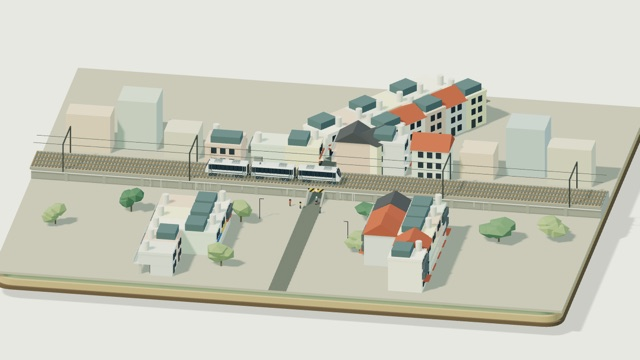
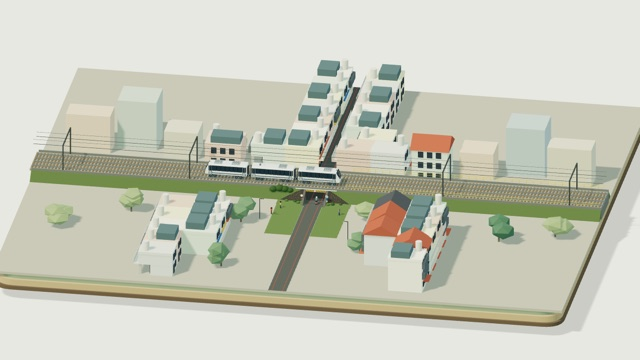
feat(garage/guanghua): 照片比對兩輪——「看涵洞」改成照片角度、洞口加寬、洞口周邊依照片重做（評分 14／20，未達 16 門檻，檢查點）
依使用者 09-30 貼的兩張網路照片（遠景正面 EMU500、近景直式莒光）做照片比對。
「看涵洞」按鈕改成照片角度（使用者選項「改「看涵洞」」）。

guanghua-view.js
- 看涵洞改用透視鏡頭：水平視角 24°、預設離洞口 20 m、人眼高 1.5 m；縮放 10～31 m，可往下拖（仰角下限 -.12、鏡頭不低於地面 .3 m），切換時帶天空漸層貼圖。其他視角照舊用正交鏡頭。
- lookTime：時間再挪到最靠近洞口的那節車廂中心正對洞口（主對話判讀）。
- internals().camera 改成 getter，回傳當下實際使用的鏡頭（驗收工具快取 internals 時也拿得到透視鏡頭）。

guanghua.js（尺寸都是主對話依照片估計）
- 涵洞淨寬 3.0 → 4.5 m（照片開口寬約為淨高的 2.5 倍），淨高不變；橋面降到 2.3 m。
- 洞口立面由下往上：黃黑斜紋梁（左側多伸出去）→ 淺灰鋼梁翼板 → 灰色混凝土護欄；拿掉擋土牆面板與扶壁。
- 洞內側牆與洞頂貼深色，洞內路面用深色瀝青；翼牆改深灰並加直向鏽痕；路面與混凝土整體壓暗。
- 細節併成一個網格（一張貼圖、多 1 次 draw call）：草坡、卵石錐坡（5 m、頂緣從洞口直線降到坡腳）、紅線、草地與草叢、限高牌、反光鏡與藍白牌、黃色欄杆。
- 每股加一條細承力索；洞口後房子改兩層平頂；洞後的路拉直（OSM 與照片一）；拍照者移到洞口兩側。
- 照片裡的拒馬、交通錐不做（使用者：「請忽略照片中的維修圍籬之類的物件」）。

驗證（本機 static server，Chrome 無視窗）
- V2 淨空 36 款：34 款 0 穿入；e500、e1000 紅在集電弓碰線，穿入點與改動前逐項相同（已知、使用者決定不改）。
- V5 draw call 39 組全過，最高 119（門檻 129），點光源都是 3 盞。
- V6 機車：冒煙、兩趟路徑幾何（15/15、15/15）、招牌時刻、出現時機全過。洞壁正向對照改依洞寬推移，夜燈量光改用縮小到底加往上拖，都是判準過期。
- V6 夜燈 11/12：主判準過（洞內開燈比值 27.0、11.7，路燈下 2.4）。紅的是正向對照「夜裡關洞燈 → 洞內比值 <2」量到 2.06（改動前 1.72）：洞內改深色後白天基準變暗，「洞裡本來就暗」的效應變大。燈的效果仍有 5～13 倍差距，但這條判準要改成相對門檻才有鑑別力，留給下一輪。
- 照片角度互動檢查 66 項全過（6 款車）；外框冒煙 console error 0；預覽圖重產。
- 獨立評審（opus，照 rubric）：r4 是 A 14、B 13；r5 是 A 14、B 14，B 的「洞口兩側」0 分。都沒到 16 分門檻，下一輪計畫見桌面交接檔。

diff --git a/rail-3d/garage-scenes/guanghua.js b/rail-3d/garage-scenes/guanghua.js
@@ -32,17 +32,20 @@ export const THEMES={ // 同高架景那組色（viaduct.js），粗模沿用
 };
 // 幾何規格（公尺）。「依照片估計」的與「本輪自訂」的分開標。
 export const DIM={
- W:3.0,        // 涵洞淨寬（依照片估計）
+ W:4.5,        // 涵洞淨寬（照片比對第二輪由 3.0 加寬：使用者 09-30 貼的遠景正面照，開口寬約為淨高的 2.5 倍；主對話依照片估計）
  H:2.1,        // 涵洞淨高（依照片估計）
  BANK:10.0,    // 穿越長度＝路堤頂寬（依照片估計 8～10 m 取上限：kit 的道床每股 5.3 m 寬，兩股要放得下）
- DECK:2.6,     // 橋面頂離涵洞路面（本輪自訂：淨高 2.1＋橋面板厚 .5）
- BEAM:2.95,    // 警示梁頂（本輪自訂：使列車底離梁頂約 .7 m，落在依照片估計的 .6～.9 m）
+ DECK:2.3,     // 橋面頂離涵洞路面（照片比對輪由 2.6 降到 2.3：軌頂跟著降 .3 m，護欄頂才剛好蓋住鋼軌、從人眼高度只看到車底，同使用者 09-30 貼的照片；數值是主對話依照片估計）
+ BEAM:2.6,     // 黃黑斜紋梁頂（照片比對輪：斜紋約 .5 m 高，依照片估計；原本 2.95）
+ FLANGE:2.8,   // 斜紋梁上的淺灰鋼梁翼板頂（依照片估計，約 .2 m 高）
+ PARAPET:3.1,  // 灰色混凝土護欄頂（依照片估計：翼板上露出約 .3 m；比軌頂高一點點）
+ PARAPET_T:.25,// 護欄厚（本輪自訂）
  BEAM_T:.35,   // 警示梁厚（本輪自訂）
  DIP:.6,       // 涵洞路面比外側低多少（依照片估計「低於外側」，數值本輪自訂）
  CUT:4.4,      // 洞口外的引道切口長（本輪自訂；粗模是 5.2，短一點翼牆坡度陡、斜角看洞口比較不被擋）
  FLAT:1.5,     // 切口裡先平 1.5 m 再爬坡（本輪自訂）
  WALL_T:.45,   // 翼牆厚（本輪自訂；粗模是 .3，擋土牆要有分量）
- WALL_H:2.6,   // 翼牆貼路堤那一端的高＝橋面高（牆頂接路堤與鐵道），往外斜降到外側地面（本輪自訂；粗模是 2.2）
+ WALL_H:2.6,   // 翼牆貼路堤那一端的高＝斜紋梁頂＝錐坡頂，往外斜降到外側地面（本輪自訂；粗模是 2.2）
  SPACING:4.0,  // 雙線線間距（本輪自訂：台鐵雙線一般約 4 m）
  ALLEY:4.0     // 涵洞外的巷寬（本輪自訂）
 };
@@ -59,11 +62,40 @@ function profile(k,pts,thick){
 function warningFace(w,h){
  const c=document.createElement('canvas'),W=1024,H=Math.max(64,Math.round(W*h/w));c.width=W;c.height=H;
  const g=c.getContext('2d');g.fillStyle='#dfb63a';g.fillRect(0,0,W,H);
- const p=H*.62; // 一組黃黑的水平週期
- g.fillStyle='#26282a';for(let x0=-H;x0<W+H;x0+=p*2){g.beginPath();g.moveTo(x0,H);g.lineTo(x0+p,H);g.lineTo(x0+p+H,0);g.lineTo(x0+H,0);g.closePath();g.fill();}
+ const p=H*.35,k=H*.55; // 黃、黑各一條的水平寬與斜紋上下兩端的水平位移（照片比對輪：依照片改窄、改陡，一組約 .35 m；原本 p＝H×.62、k＝H）
+ g.fillStyle='#26282a';for(let x0=-H;x0<W+H;x0+=p*2){g.beginPath();g.moveTo(x0,H);g.lineTo(x0+p,H);g.lineTo(x0+p+k,0);g.lineTo(x0+k,0);g.closePath();g.fill();}
  const r=H*.43;g.fillStyle='#f3efe4';g.beginPath();g.arc(W/2,H/2,r,0,Math.PI*2);g.fill();
  g.lineWidth=r*.2;g.strokeStyle='#c4342b';g.beginPath();g.arc(W/2,H/2,r-g.lineWidth/2,0,Math.PI*2);g.stroke();
  const t=new THREE.CanvasTexture(c);t.colorSpace=THREE.SRGBColorSpace;t.anisotropy=4;return t;
+}
+// 【照片比對】洞口周邊細節共用一張 1024² 貼圖（一個網格＝一次 draw call）：上 384 列是卵石錐坡（透明處露出底下草坡，外緣四分之一橢圓），下面是限高牌、黃黑桿、各色色塊。
+// 卵石的顏色與疏密依使用者 09-30 貼的照片二（深灰砂漿、橘褐卵石）估計；圓牌照片看不清字，這裡不寫字。
+const SWATCH={red:'#b4463c',grass:'#55683a',grass2:'#617541',flange:'#d3d5cf',yellow:'#d7b43a',bush:'#3a5429',bush2:'#4a6630',mirror:'#a3aaae',rim:'#43464a',blue:'#2d5d9c',white:'#eceae2'};
+function detailAtlas(rand){
+ const c=document.createElement('canvas');c.width=c.height=1024;const g=c.getContext('2d'),S=384;
+ g.fillStyle='#393b37';g.fillRect(0,0,1024,S);
+ for(let i=0;i<5000;i++){const v=38+rand()*24|0;g.fillStyle=`rgb(${v},${v+2},${v-2})`;g.fillRect(rand()*1024,rand()*S,2+rand()*4,2+rand()*4);}
+ const stones=['#7e4f30','#8b5a36','#6c4630','#5b4d40','#4b4a45'];
+ for(let i=0;i<150;i++){const x=rand()*1024,y=rand()*S,r=6+rand()*5;g.fillStyle=stones[rand()*stones.length|0];g.beginPath();g.ellipse(x,y,r*(1+rand()*.4),r,rand()*Math.PI,0,Math.PI*2);g.fill();}
+ // 錐坡外形：靠洞口那 5% 頂緣是平的，往外近乎直線降到坡腳（照片比對第二輪：照片裡錐坡頂從洞口旁一路斜降，主對話判讀）；外側透明
+ g.globalCompositeOperation='destination-in';g.beginPath();g.moveTo(0,0);g.lineTo(51,0);
+ for(let x=51;x<=1024;x+=8){const f=(x-51)/(1024-51);g.lineTo(x,S*Math.pow(f,1.1));}
+ g.lineTo(1024,S);g.lineTo(0,S);g.closePath();g.fill();g.globalCompositeOperation='source-over';
+ const rect={stone:[0,0,1024,S],pole:[0,400,64,656],sign:[80,400,336,656]},sw={};
+ Object.entries(SWATCH).forEach(([n,col],i)=>{const x=352+(i%10)*64,y=400+(i/10|0)*64;g.fillStyle=col;g.fillRect(x,y,64,64);sw[n]=[(x+32)/1024,1-(y+32)/1024];});
+ for(let i=0;i<8;i++){g.fillStyle=i%2?'#26282a':'#d7b43a';g.fillRect(0,400+i*32,64,32);} // 黃黑相間的桿
+ g.fillStyle='#b8b5ac';g.fillRect(80,400,256,256);g.fillStyle='#f1eee6';g.beginPath();g.arc(208,528,124,0,Math.PI*2);g.fill();
+ g.lineWidth=26;g.strokeStyle='#c4342b';g.beginPath();g.arc(208,528,111,0,Math.PI*2);g.stroke();
+ const t=new THREE.CanvasTexture(c);t.colorSpace=THREE.SRGBColorSpace;t.anisotropy=4;
+ const uvRect=n=>{const [x0,y0,x1,y1]=rect[n];return[x0/1024,1-y1/1024,x1/1024,1-y0/1024];}; // [u0,v0,u1,v1]
+ return{texture:t,swatch:sw,uvRect};
+}
+// 把多個幾何（各自先套好世界矩陣與 UV）併成一個非索引幾何。
+const seeded=n=>{let v=n;return()=>((v=(Math.imul(v,1664525)+1013904223)>>>0)/4294967296);};
+function mergeParts(parts){
+ const P=[],N=[],U=[];
+ for(const g0 of parts){const g=g0.index?g0.toNonIndexed():g0;P.push(...g.attributes.position.array);N.push(...g.attributes.normal.array);U.push(...g.attributes.uv.array);if(g!==g0)g.dispose();g0.dispose();}
+ const g=new THREE.BufferGeometry();g.setAttribute('position',new THREE.Float32BufferAttribute(P,3));g.setAttribute('normal',new THREE.Float32BufferAttribute(N,3));g.setAttribute('uv',new THREE.Float32BufferAttribute(U,2));return g;
 }
 
 // ── 拍照者：garage-people-v1 的人＋garage-camera-v1 的相機（同多良 duoliang.js 的 createVisitors，只留攝影者：腳固定、上半身繞腰轉向最近車廂，上限 TORSO_LIMIT）。
@@ -162,8 +194,8 @@ export function createScene(kits=null){
  const RAIL_Z=ZD+STACK,WIRE_Z=RAIL_Z+1.95; // 電車線離軌頂 1.95：與 crossing／高架同一個高度，集電弓伸得到
  const X=27,Y=23.6; // 地面層比底座薄板內縮一點，圓角才不會被方塊角戳出去；第二輪把底座由 76 縮成 54 寬（主對話判讀：全景取景才能拉近到洞口與擋土牆看得清楚、又不裁到底座）
  // 材質：名字給驗收腳本（淨空、比例）辨認結構角色；房子與道具用 props 自己的材質。
- const concrete=mat('#a4a199',{name:'concrete'}),stain=mat('#8a8880',{name:'stain'}),streak=mat('#b9b6ac',{name:'streak'}),paving=mat('#a9a495',{name:'ground'}),asphalt=mat('#62665f',{name:'asphalt'});
- const wall=mat('#96948b',{name:'retaining-wall'}),cap=mat('#c2bfb4',{name:'retaining-wall-cap'}),wstain=mat('#8a8880',{name:'retaining-wall-stain'}),wstreak=mat('#b9b6ac',{name:'retaining-wall-streak'}); // 擋土牆面板（路堤正面、引道翼牆）與壓頂、牆面上的水漬：名字都以 retaining-wall 開頭，驗收用名字認
+ const concrete=mat('#6f706b',{name:'concrete'}),stain=mat('#3b3a36',{name:'stain'}),streak=mat('#94643f',{name:'streak'}),paving=mat('#a9a495',{name:'ground'}),asphalt=mat('#51534f',{name:'asphalt'}),asphaltIn=mat('#3c3d3a',{name:'asphalt'}); // 照片比對輪：混凝土調深、洞內水漬改成深色與鏽色（依照片）；第二輪再壓暗：洞內近乎黑、洞口是亮框，路面是深灰瀝青（主對話依照片估計）
+ const wall=mat('#5b5a55',{name:'retaining-wall'}),wstain=mat('#6e4a30',{name:'retaining-wall-stain'}); // 引道翼牆（照片裡洞口兩旁那段帶鏽的混凝土）與牆上的鏽水痕：名字以 retaining-wall 開頭，驗收用名字認
  const pole=mat('#3b4140',{name:'pole'}),trough=mat('#8d8b84',{name:'trough'}),hanger=mat('#bbb8a8',{name:'hanger'}),wire=mat('#4a5150',{name:'wire'});
 
  // ── 底座：三層薄板，頂面 z=0＝涵洞內的路面（同 crossing 的做法）。
@@ -173,41 +205,39 @@ export function createScene(kits=null){
   block(paving,[2*X,Y-YC,ZG],[0,s*(YC+Y)/2,ZG/2]);
   for(const sx of [-1,1])block(paving,[X-CX,YC-HB,ZG],[sx*(CX+X)/2,s*(HB+YC)/2,ZG/2]);
  }
- // ── 路堤＋涵洞：兩側實心塊（涵洞的側牆就是它們的內面），洞頂是橋面板，洞口上緣一根黃黑斜紋警示梁。
+ // ── 路堤＋涵洞：兩側實心塊（涵洞的側牆就是它們的內面），洞頂是橋面板。
  for(const sx of [-1,1])block(concrete,[X-HW,2*HB,ZD],[sx*(HW+X)/2,0,ZD/2]);
  block(concrete,[2*HW,2*HB,ZD-ZS],[0,0,(ZD+ZS)/2]);
- const beamW=2*(HW+u(.3)),beamH=ZB-ZS,beamTex=warningFace(beamW,beamH),beamMat=new THREE.MeshStandardMaterial({map:beamTex,roughness:.85});k.ownMaterial(beamMat);beamMat.name='warning-beam';
+ // 【照片比對】洞口立面由下往上（依使用者 09-30 貼的兩張照片估計）：黃黑斜紋警示梁（ZS～ZB，寬＝洞寬＋兩側各 .9 m）→ 淺灰鋼梁翼板（ZB～ZF，寬 9.2 m，在下面的細節網格）
+ //   → 灰色混凝土護欄（橋面 ZD 起到 ZP，整條路堤長；翼板以外、錐坡頂 ZB 以上露出來）。護欄頂比軌頂略高，從人眼高度看只露出車底。
+ //   第二輪那層「擋土牆面板＋扶壁＋壓頂」拿掉：照片裡洞口兩旁是卵石錐坡與草坡，不是整面直立的牆（主對話判讀）。
+ const ZF=u(DIM.FLANGE),ZP=u(DIM.PARAPET),PT=u(DIM.PARAPET_T);
+ const beamW=u(DIM.W+1.1),BX=-u(.3),beamH=ZB-ZS,beamTex=warningFace(beamW,beamH),beamMat=new THREE.MeshStandardMaterial({map:beamTex,roughness:.85});k.ownMaterial(beamMat);beamMat.name='warning-beam';
  for(const s of [-1,1]){
-  block(concrete,[beamW,BT,beamH],[0,s*(HB-BT/2),(ZB+ZS)/2]);
-  const face=k.mesh(new THREE.PlaneGeometry(beamW,beamH),beamMat,[0,s*(HB+.004),(ZB+ZS)/2]);face.rotation.set(Math.PI/2,s>0?Math.PI:0,0);face.castShadow=false;face.name='warning-face';
- }
- // 擋土牆（本輪自訂，第二輪新增）：路堤正面（洞口左右）貼一層灰色混凝土面板；洞口旁那一小段只到洞高（警示梁在它上面），往外整面到橋面高；
- // 頂緣一條壓頂、每隔一段一根扶壁、頂下與牆腳各一條水漬色帶——讓「橋面在上、巷子在下」讀得出來。面板在 y 方向只凸出 FT，不動路堤本體（淨空與淨寬照舊）。
- const FT=.03,bw2=beamW/2;
- for(const s of [-1,1])for(const sx of [-1,1]){
-  block(wall,[bw2-HW,FT,ZS],[sx*(HW+bw2)/2,s*(HB+FT/2),ZS/2]);
-  block(wall,[X-bw2,FT,ZD-.002],[sx*(bw2+X)/2,s*(HB+FT/2),(ZD-.002)/2]);
-  block(cap,[X-bw2,FT+.07,.07],[sx*(bw2+X)/2,s*(HB+(FT+.07)/2),ZD-.035]);
-  for(let x=bw2+1.3;x<X-1;x+=3.6)block(wall,[.3,FT+.09,ZD-.002],[sx*x,s*(HB+(FT+.09)/2),(ZD-.002)/2]);
-  block(wstain,[X-bw2,.006,.13],[sx*(bw2+X)/2,s*(HB+FT+.003),ZD-.16]);
-  block(wstain,[X-bw2,.006,.09],[sx*(bw2+X)/2,s*(HB+FT+.003),ZG+.06]);
+  block(concrete,[beamW,BT,beamH],[BX,s*(HB-BT/2),(ZB+ZS)/2]); // 第二輪：斜紋梁左邊多伸 .85 m、右邊 .25 m（照片二的斜紋帶蓋過左橋台，主對話依照片估計）
+  const face=k.mesh(new THREE.PlaneGeometry(beamW,beamH),beamMat,[BX,s*(HB+.004),(ZB+ZS)/2]);face.rotation.set(Math.PI/2,s>0?Math.PI:0,0);face.castShadow=false;face.name='warning-face';
+  block(concrete,[2*X,PT,ZP-ZD],[0,s*(HB-PT/2),(ZP+ZD)/2]);
  }
  // 洞內路面（瀝青）＋翼牆＋引道斜坡。翼牆截面：貼路堤那端高 WALL_H，往外斜降到外側地面高 ZG。
  const flatEnd=HB+FLAT,rampLen=YC-flatEnd;
- block(asphalt,[2*HW,2*flatEnd,.02],[0,0,.01]);
+ block(asphaltIn,[2*HW,2*HB,.02],[0,0,.01]); // 第二輪：洞頂下那段路面另用深色瀝青（照片裡洞內近乎黑）；洞口外到斜坡起點照舊
+ for(const s of [-1,1])block(asphalt,[2*HW,flatEnd-HB,.02],[0,s*(HB+flatEnd)/2,.01]);
  const wingGeo=profile(k,[[0,0],[0,u(DIM.WALL_H)],[CUT,ZG],[CUT,0]],WT),rampGeo=profile(k,[[0,0],[rampLen,0],[rampLen,ZG]],2*HW);
  for(const s of [-1,1]){
   for(const sx of [-1,1])instance(wingGeo,wall,[sx*(HW+WT/2),s*HB,0],[1,1,1],[0,0,s>0?0:Math.PI]);
   instance(rampGeo,asphalt,[0,s*flatEnd,0],[1,1,1],[0,0,s>0?0:Math.PI]);
  }
- // 水漬：從邊緣往下的深淺條紋，貼在擋土牆面板（路堤兩面）、洞內側牆與翼牆外面（同一顆種子，每次一樣）。
+ // 水漬：從邊緣往下的深淺條紋，貼在洞內側牆與翼牆（同一顆種子，每次一樣）；翼牆內面（朝巷子）加鏽水痕（照片比對輪新增，依照片）。
  const rnd=k.rand;
- for(const s of [-1,1])for(let i=0;i<44;i++){const sx=rnd()<.5?-1:1,x=sx*(bw2+.15+rnd()*15),w=.03+rnd()*.08,h=.3+rnd()*.7;block(rnd()<.7?wstain:wstreak,[w,.006,h],[x,s*(HB+FT+.004),ZD-.08-h/2]);}
+ for(const sx of [-1,1])block(stain,[.0015,2*HB,ZS],[sx*(HW-.00075),0,ZS/2]); // 照片比對輪：洞內側牆整面貼深色（照片裡洞內明顯比洞外暗；沿用水漬材質，不多 draw call）
+ block(stain,[2*HW,2*HB,.0015],[0,0,ZS-.00075]); // 第二輪：洞頂也貼深色
  for(const sx of [-1,1])for(let i=0;i<14;i++){const w=.03+rnd()*.07,h=.2+rnd()*.5,y=(rnd()*2-1)*(HB-.15);block(rnd()<.7?stain:streak,[.006,w,h],[sx*(HW-.002),y,ZS-h/2]);}
  for(const s of [-1,1])for(const sx of [-1,1])for(let i=0;i<5;i++){const y=s*(HB+.2+rnd()*(CUT-.5)),top=ZG+(u(DIM.WALL_H)-ZG)*(1-(Math.abs(y)-HB)/CUT)-.03,w=.04+rnd()*.06,h=.15+rnd()*.3;block(wstain,[.006,w,Math.min(h,top-.05)],[sx*(CX+.002),y,top-Math.min(h,top-.05)/2]);}
- // 涵洞外的巷子：外側地面上的瀝青帶；後端在 L1 之後右彎（遠端向右上彎出，依照片）。
+ for(const s of [-1,1])for(const sx of [-1,1])for(let i=0;i<8;i++){const y=s*(HB+.05+rnd()*(CUT*.55)),top=ZG+(u(DIM.WALL_H)-ZG)*(1-(Math.abs(y)-HB)/CUT)-.02,w=.05+rnd()*.1,h=Math.min(top-.05,.3+rnd()*.5);block(rnd()<.75?wstain:stain,[.006,w,h],[sx*(HW-.002),y,top-h/2]);}
+ // 涵洞外的巷子：外側地面上的瀝青帶。照片比對輪把後段的右彎拉直（TH＝0）：OSM 光華街出洞後直行約 70 m、使用者 09-30 貼的照片一從洞口看出去也是一條直路（主對話判讀）。
+ // 彎道的寫法（kink、TH）留著，機車路線與後段房子都照它算；TH＝0 時就是一直線，L2 鋪到底座後緣 Y。
  block(asphalt,[2*AH,Y-YC,.012],[0,-(YC+Y)/2,ZG+.006]);
- const L1=u(6),TH=35*Math.PI/180,L2=20.2,kink=[0,YC+L1]; // L2 由 19 加長到 20.2（本輪自訂）：後段巷子一路鋪到底座後緣，機車才由後緣進出；遠端外角 y≈23.59 仍在鋪面邊緣 Y＝23.6 之內
+ const L1=u(6),TH=0,kink=[0,YC+L1],L2=Y-.01-kink[1];
  block(asphalt,[2*AH,L1,.012],[0,YC+L1/2,ZG+.006]);
  block(asphalt,[2*AH,L2,.012],[kink[0]+Math.sin(TH)*L2/2,kink[1]+Math.cos(TH)*L2/2,ZG+.006],[0,0,-TH]);
 
@@ -225,19 +255,22 @@ export function createScene(kits=null){
   for(const y of [-YT,YT])block(hanger,[.06,.06,beamZ-WIRE_Z],[x,y,(beamZ+WIRE_Z)/2]);
  }
  for(const y of [-YT,YT])block(wire,[2*X,.025,.025],[0,y,WIRE_Z]);
+ for(const y of [-YT,YT])block(wire,[2*X,.012,.012],[0,y,WIRE_Z+.45]); // 第二輪：每股加一條細承力索（照片裡車頂上方是 3～4 條細線，主對話判讀）
 
  // ── 透天厝（props.townhouse；facing 是正面朝向，0 朝 −y）。洞口前（−y 側）是空地：|x|<PX 從切口盡頭一路到底座前緣不蓋房子，房子退到空地兩側各兩排（內排面向空地、外排背對它）；
 // 洞口後（+y 側）照舊夾著巷子，後端的房子跟著巷子右彎轉角度。
  const hz=ZG,tints=[0,1,2,3,4],roofs=['tin','pitched','parapet','tin'],grounds=['plain','shop','plain','arcade'];
  let hi=0;
  const houseList=[];
- const house=(x,y,facing,o={})=>{const i=hi++;houseList.push({i,x,y,facing,floors:o.floors??(2+(i%2))});props.townhouse(x,y,hz,{floors:o.floors??(2+(i%2)),width:o.width??2.6,depth:o.depth??3.2,tint:tints[(i*3)%5],facing,roof:roofs[i%4],ground:grounds[(i+1)%4],balcony:i%3?'rail':'cage',tanks:1,back:true});};
+ const house=(x,y,facing,o={})=>{const i=hi++;houseList.push({i,x,y,facing,floors:o.floors??(2+(i%2))});props.townhouse(x,y,hz,{floors:o.floors??(2+(i%2)),width:o.width??2.6,depth:o.depth??3.2,tint:tints[(i*3)%5],facing,roof:o.roof??roofs[i%4],ground:grounds[(i+1)%4],balcony:i%3?'rail':'cage',tanks:1,back:true});};
  const PX=7; // 空地半寬（單位；本輪自訂：看涵洞鏡頭視野半寬約 3.6，再留餘裕；斜 ±20° 看洞口的視線在到底座前緣時側移約 8.4，所以內排只蓋到 y≈-17）
  // 房子從洞口前 6 單位以外才開始蓋：全景鏡頭抬高 26° 看，近處的房子會把後面的路堤正面整段擋住（本輪自訂）。
  for(let i=0;i<5;i++){const y=-(YC+6+i*2.7);if(i<3){house(-(PX+1.6),y,Math.PI/2);house(PX+1.6,y+.3,-Math.PI/2);}house(-(PX+4.8),y,-Math.PI/2);house(PX+4.8,y+.3,Math.PI/2);}
- house(-2.45,YC+1.4,Math.PI/2,{floors:2});house(2.45,YC+1.4,-Math.PI/2,{floors:3});house(-5.65,YC+1.4,-Math.PI/2);house(5.65,YC+1.4,Math.PI/2);
+ // 照片比對輪：洞口正後方這四棟改成兩層平頂（照片裡列車上方只有天空；三層與斜屋頂會從車頂上冒出來，主對話判讀）。
+ house(-2.45,YC+1.4,Math.PI/2,{floors:2,roof:'tin'});house(2.45,YC+1.4,-Math.PI/2,{floors:2,roof:'parapet'});house(-5.65,YC+1.4,-Math.PI/2,{floors:2,roof:'tin'});house(5.65,YC+1.4,Math.PI/2,{floors:2,roof:'parapet'});
  for(let i=0;i<6;i++){const s=1.6+i*2.7,cx=kink[0]+Math.sin(TH)*s,cy=kink[1]+Math.cos(TH)*s,ln=[-Math.cos(TH),Math.sin(TH)],rn=[Math.cos(TH),-Math.sin(TH)];
-  house(cx+ln[0]*2.45,cy+ln[1]*2.45,Math.PI/2-TH);house(cx+rn[0]*(2.45+(i<1?1.6:0)),cy+rn[1]*(2.45+(i<1?1.6:0)),-Math.PI/2-TH);}
+  const o={floors:2,roof:i%2?'tin':'parapet'}; // 照片比對輪：兩層平頂（照片角度看過去，三層與斜屋頂會從列車上方冒出來；主對話判讀）
+  house(cx+ln[0]*2.45,cy+ln[1]*2.45,Math.PI/2-TH,o);house(cx+rn[0]*(2.45+(i<1?1.6:0)),cy+rn[1]*(2.45+(i<1?1.6:0)),-Math.PI/2-TH,o);}
  // 洞口後、路堤兩側外側地面上各放一棟量體，擋住空曠的路堤腳（洞口前那兩棟拿掉了，那裡是空地）。
  for(const [x,y,f,fl] of [[-9.8,YC+.9,Math.PI,2],[9.8,YC+.9,Math.PI,3]])house(x,y,f,{floors:fl,width:3.4,depth:3.0});
  // ── 周邊補景（本輪自訂）：後側（+y）路堤外沿排低矮方塊當市街背景；前側（−y）只種行道樹——前側不放高過路堤的東西，低角度才看得到路堤面。
@@ -255,14 +288,67 @@ export function createScene(kits=null){
  const addLight=(x,y,z,peak,dist,name,decay=2)=>{const l=new THREE.PointLight('#ffd8a3',0,dist,decay);l.position.set(x,y,z);l.name=name;group.add(l);lamps.push({light:l,peak});lampSpots.push({name,x,y,z,peak,dist,decay});};
  block(bulb,[.22,.1,.03],[0,0,ZS-.015]);addLight(0,0,ZS-.09,5.5,4.2,'culvert-lamp',1); // 涵洞頂燈：貼在洞頂板下緣、洞中央。本輪自訂：衰減取 1（非物理的 2），模擬沿洞頂的長燈管——10 m 長的洞只准 1 盞點光源，衰減 2 照不到兩端洞口
  for(const [x,y,dir] of [[-4.4,-7.6,1],[4.6,-11.4,-1]]){const H=u(4.8),hx=x+dir*.36;block(pole,[.05,.05,H],[x,y,ZG+H/2]);block(pole,[.4,.04,.04],[x+dir*.2,y,ZG+H]);block(bulb,[.2,.1,.025],[hx,y,ZG+H-.03]);addLight(hx,y,ZG+H-.08,12,7.5,'street-lamp');} // 路燈：桿高 4.8 m、懸臂朝巷子
+
+ // ── 【照片比對】洞口周邊細節（依使用者 09-30 貼的兩張照片；位置與尺寸是主對話依照片估計）：全部併成一個網格、共用一張貼圖（detailAtlas），只多一次 draw call。
+ //   ・草坡：路堤正反兩面、翼牆以外整條，由錐坡頂 ZB 以 1:1 斜降到外側地面（照片裡路堤面是斜坡，不是直牆）。
+ //   ・卵石錐坡：翼牆外側 7 m，貼在草坡上（深灰砂漿＋橘褐卵石，頂緣靠洞口平、往外四分之一橢圓降到坡腳）。
+ //   ・淺灰鋼梁翼板（斜紋梁上方）、巷子兩側紅線（洞內、引道、洞外到底座緣）、洞口前兩側草地與草叢、左上角坡頂的灌木。
+ //   ・洞口左邊黃黑桿上的圓形限高牌、右邊黃黑桿上的反光鏡與藍白路牌、路堤頂護欄上的黃色欄杆。
+ //   照片裡的拒馬、交通錐不做：使用者 09-30 交代「請忽略照片中的維修圍籬之類的物件」。
+ const atlas=detailAtlas(seeded(71)),parts=[],m4=new THREE.Matrix4(),qt=new THREE.Quaternion(),e3=new THREE.Euler();
+ const put=(g,pos,rot=[0,0,0],scale=[1,1,1])=>{g.applyMatrix4(m4.compose(new THREE.Vector3(...pos),qt.setFromEuler(e3.set(...rot)),new THREE.Vector3(...scale)));parts.push(g);return g;};
+ const paint=(g,name)=>{const [su,sv]=atlas.swatch[name],uv=g.attributes.uv;for(let i=0;i<uv.count;i++)uv.setXY(i,su,sv);return g;};
+ const fitUV=(g,[u0,v0,u1,v1])=>{const uv=g.attributes.uv;for(let i=0;i<uv.count;i++)uv.setXY(i,u0+uv.getX(i)*(u1-u0),v0+uv.getY(i)*(v1-v0));return g;};
+ const boxG=(name,size,pos,rot)=>put(paint(new THREE.BoxGeometry(...size),name),pos,rot);
+ const SL=ZB-ZG,LC=u(5); // 第二輪錐坡由 7 m 縮成 5 m（照片二左側錐坡約 5 m 就降到坡腳，主對話依照片估計） // 草坡水平長（1:1）、錐坡沿路堤長
+ for(const s of [-1,1])for(const sx of [-1,1]){
+  const g=new THREE.ExtrudeGeometry(new THREE.Shape([[0,0],[0,ZB],[SL,ZG],[SL,0]].map(([y,z])=>new THREE.Vector2(y,z))),{depth:X-CX,bevelEnabled:false});
+  g.applyMatrix4(new THREE.Matrix4().makeBasis(new THREE.Vector3(0,1,0),new THREE.Vector3(0,0,1),new THREE.Vector3(1,0,0)));g.translate(-(X-CX)/2,0,0);
+  put(paint(g,'grass'),[sx*(CX+X)/2,s*HB,0],[0,0,s>0?0:Math.PI]);
+  // 錐坡：草坡面上方沿法線 (0,s,1)/√2 抬 .012 的一片四邊形；貼圖左緣＝靠洞口那端、上緣＝坡頂
+  const o=.012/Math.SQRT2,[u0,v0,u1,v1]=atlas.uvRect('stone'),x0=sx*CX,x1=sx*(CX+LC),yT=s*(HB+o),yB=s*(HB+SL+o),zT=ZB+o,zB=ZG+o;
+  const P=[[x0,yT,zT],[x1,yT,zT],[x1,yB,zB],[x0,yB,zB]],U=[[u0,v1],[u1,v1],[u1,v0],[u0,v0]],n=new THREE.Vector3().subVectors(new THREE.Vector3(...P[1]),new THREE.Vector3(...P[0])).cross(new THREE.Vector3().subVectors(new THREE.Vector3(...P[2]),new THREE.Vector3(...P[0])));
+  const idx=n.z>0?[0,1,2,0,2,3]:[0,2,1,0,3,2],c=new THREE.BufferGeometry();
+  c.setAttribute('position',new THREE.Float32BufferAttribute(idx.flatMap(i=>P[i]),3));c.setAttribute('uv',new THREE.Float32BufferAttribute(idx.flatMap(i=>U[i]),2));c.computeVertexNormals();parts.push(c);
+ }
+ for(const s of [-1,1])boxG('flange',[u(9.2),.07,ZF-ZB],[0,s*HB,(ZB+ZF)/2]);
+ const RX=u(1.2),RW=u(.1),RT=.004,ramp=Math.atan2(ZG,rampLen),rl=Math.hypot(rampLen,ZG);
+ for(const sx of [-1,1]){const x=sx*RX;
+  boxG('red',[RW,2*flatEnd,RT],[x,0,.02+RT/2]);
+  for(const s of [-1,1]){boxG('red',[RW,rl,RT],[x,s*(flatEnd+rampLen/2),ZG/2+RT/2+.001],[s*ramp,0,0]);boxG('red',[RW,Y-YC,RT],[x,s*(YC+Y)/2,ZG+.012+RT/2]);}
+ }
+ for(const sx of [-1,1]){ // 洞口前（−y，看涵洞鏡頭那一側）兩側草地
+  boxG('grass2',[u(5.5),YC-HB-SL+.02,.008],[sx*(CX+u(5.5)/2),-(HB+SL+YC)/2,ZG+.004]);
+  boxG('grass2',[u(6),u(16),.008],[sx*(AH+.03+u(6)/2),-(YC+u(8)),ZG+.004]);
+ }
+ const bush=(x,y,z,r,c='bush')=>put(paint(new THREE.IcosahedronGeometry(1,1),c),[x,y,z],[0,0,0],[r,r,r*.75]);
+ const dX=CX-.83; // 第二輪洞口加寬，洞口前與坡頂的草叢跟著翼牆外移（原座標是 CX＝.83 時定的）
+ for(const [x,y,r,c] of [[-1.15,-3.45,.2,'bush2'],[-1.5,-3.2,.16,'bush'],[1.05,-3.5,.18,'bush2'],[1.45,-3.35,.2,'bush'],[-2.3,-3.15,.17,'bush2'],[2.2,-3.2,.15,'bush']])bush(x+Math.sign(x)*dX,y,ZG+r*.3,r,c);
+ for(const [x,d,r] of [[-2.1,.2,.3],[-2.6,.15,.38],[-3.1,.12,.42],[-3.7,.2,.36]])bush(x-dX,-(HB+d),ZB-d+r*.3,r,'bush');
+ const PY=-(HB+u(2.4)),poleG=(x,h)=>put(fitUV(new THREE.CylinderGeometry(u(.04),u(.04),h,10,1,true),atlas.uvRect('pole')),[x,PY,ZG+h/2],[Math.PI/2,0,0]);
+ const LX=-(CX+u(.1)),MX=CX+u(.1); // 第二輪：限高牌與反光鏡貼著翼牆外側立（照片二裡兩根桿都緊挨洞口兩邊，主對話依照片估計；再往內會插進翼牆）
+ const SZ=u(1.55),MZ=u(1.75); // 第二輪：牌面與鏡面降低（照片二裡圓牌在斜紋帶高度、反光鏡在翼板高度，主對話依照片估計）
+ poleG(LX,SZ+u(.3));put(fitUV(new THREE.CylinderGeometry(u(.32),u(.32),u(.03),24),atlas.uvRect('sign')),[LX,PY-u(.05),ZG+SZ]); // 限高牌（照片看不清字，不寫字）
+ poleG(MX,MZ);
+ put(paint(new THREE.CylinderGeometry(u(.44),u(.44),u(.05),24),'rim'),[MX,PY-u(.07),ZG+MZ],[.15,0,-.35]); // 反光鏡：橘框＋鏡面，微朝巷子、略朝下
+ put(paint(new THREE.CylinderGeometry(u(.4),u(.4),u(.06),24),'mirror'),[MX-u(.004),PY-u(.08),ZG+MZ],[.15,0,-.35]);
+ boxG('blue',[u(.32),u(.03),u(.5)],[MX,PY-u(.06),ZG+u(1.03)]);boxG('white',[u(.28),u(.03),u(.36)],[MX,PY-u(.06),ZG+u(.58)]);
+ const RH=u(.95),RP=u(1.6); // 路堤頂護欄上的黃色欄杆（照片二右上角是黃色欄杆、左上角是灌木，所以只放 +x 側，兩面都放；主對話判讀）
+ for(const s of [-1,1])for(const sx of [1]){const a=CX+u(4),b=X-.3,y=s*(HB-u(.12));
+  for(let x=a;x<=b+1e-6;x+=RP)boxG('yellow',[.03,.03,RH],[sx*x,y,ZP+RH/2]);
+  for(const h of [RH,RH*.5])boxG('yellow',[b-a,.022,.022],[sx*(a+b)/2,y,ZP+h]);
+ }
+ const detailMat=new THREE.MeshStandardMaterial({map:atlas.texture,roughness:.9,alphaTest:.5,side:THREE.DoubleSide});detailMat.name='photo-detail';k.ownMaterial(detailMat);
+ k.mesh(mergeParts(parts),detailMat).name='photo-details';
  k.bake();
 
  // ── 拍照者：洞口前空地上三位（站在切口盡頭外、偏離巷子軸線，不擋洞口），臉朝涵洞、頭朝列車。位置是本輪自訂（粗模時兩位站在洞裡／引道上，會擋住洞口）。
+ // 照片比對輪：三位往兩側移到 |x|≥2.8（主對話判讀：照片角度的鏡頭在巷子中線 10～31 m 外、水平視角 24°，站在 |x|<2.4 會擋在洞口前面；照片裡洞口前沒有人）。
  const aim=(x,y)=>Math.atan2(-HB-y,-x); // 臉朝洞口正中
  const specs=kits?[
-  {x:-1.05,y:-(YC+.7),z:ZG,yaw:aim(-1.05,-(YC+.7)),color:'#d8a64e',hair:'short',torso:'jacket',rel:1},
-  {x:.95,y:-(YC+1.5),z:ZG,yaw:aim(.95,-(YC+1.5)),color:'#5c8f9b',hair:'long',torso:'shirt',rel:.97},
-  {x:-2.1,y:-(YC+.3),z:ZG,yaw:aim(-2.1,-(YC+.3))+.12,color:'#c05d4a',hair:'short',torso:'shirt',rel:1}
+  {x:-2.9,y:-(YC+.9),z:ZG,yaw:aim(-2.9,-(YC+.9)),color:'#d8a64e',hair:'short',torso:'jacket',rel:1},
+  {x:2.8,y:-(YC+1.6),z:ZG,yaw:aim(2.8,-(YC+1.6)),color:'#5c8f9b',hair:'long',torso:'shirt',rel:.97},
+  {x:-3.5,y:-(YC+2.4),z:ZG,yaw:aim(-3.5,-(YC+2.4))+.12,color:'#c05d4a',hair:'short',torso:'shirt',rel:1}
  ]:[];
  const photographers=kits?createPhotographers(kits,specs):null;if(photographers)group.add(photographers.group);
  // ── 機車＋騎士（本輪自訂）：kits[2] 是機車資產（kits[0] 的人零件庫沿用，不重複載）；沒給 kits（Node 端驗收）就不放。前後端用兩個 y 剪裁面在底座緣切掉（同列車在 ±CLIP 的做法）。
@@ -286,5 +372,5 @@ export function createScene(kits=null){
     scooter.rider.setNight(period!=='day');}
    state={lights:light,photographers:specs.length,watching:photographers?.seen??0,houses:hi,scooter:scooter?{active:scooter.pose.active,trip:scooter.pose.n,dir:scooter.pose.dir,speedKmh:scooter.pose.active?scooter.pose.speed/METER*3.6:0,night:scooter.rider.state.night}:null};},
   get state(){return state;},inspect:()=>photographers?.inspect()??[],
-  dispose(){beamTex.dispose();k.dispose();photographers?.dispose();scooter?.rider.dispose();}};
+  dispose(){beamTex.dispose();atlas.texture.dispose();k.dispose();photographers?.dispose();scooter?.rider.dispose();}};
 }

diff --git a/rail-3d/garage-scenes/guanghua-view.js b/rail-3d/garage-scenes/guanghua-view.js
@@ -11,8 +11,17 @@ const OPPOSE_DELAY=26; // 對向車晚 OPPOSE_DELAY 秒（本輪自訂）；PHAS
 const distanceAt=t=>(((t*SPEED+PHASE+LAP/2)%LAP)+LAP)%LAP-LAP/2;
 // 三個視角的預設鏡頭：world 全景（正前方略偏右、抬高看，洞口正對鏡頭）、train 跟車、culvert 洞口低角度平視（鏡頭在巷子這一側，朝 +y 看洞口）。
 // 第二輪（主對話判讀）：world 由 yaw -1.2／elevation .62 轉成 -1.4／.42，鏡頭幾乎正對路堤正面；取景由半高 25 縮到約 11（半寬約 21.5，洞口與擋土牆才看得清楚；底座同輪縮成 54 寬，縮小到 .7 倍就整塊放得進去），洞口與擋土牆才看得到；數值皆本輪自訂。
-const CAMERA={world:{yaw:-1.4,elevation:.42},train:{yaw:-1.32,elevation:.4},culvert:{yaw:-Math.PI/2,elevation:.16}};
-const MIN_ELEVATION=.08,MAX_ELEVATION=1.2;
+// 【照片比對，2026-09-30】使用者原話（12:15）：「我的預期是 我們應該能把角度轉到網路上大家拍攝的照片角度 然後要看起來相同」；選項回覆：照片角度放在「看涵洞」（選項文字是主對話寫的）。
+// 以下是主對話依使用者 09-30 貼的兩張照片估計：機位在巷子中線、人眼高 1.5 m、正對洞口；兩張都像手機望遠端，水平視角約 24°；遠的那張離洞口約 30 m、近的那張約 10 m。
+// 所以 culvert 視角改用透視鏡頭（遠處變小、洞內兩側牆看得到），其他視角照舊是正交的微縮俯視。這個視角裡：
+//   ・鏡頭繞著洞口面上 aim 公尺高的那一點轉；elevation 是「在人眼高度之上再抬多少」（0＝人眼高），yaw 照舊。
+//   ・「＋／−」與滾輪是前後移動：離洞口 d／zoom^power 公尺（zoom .7～1.8 ⇒ 約 31～10 m）。
+const CAMERA={world:{yaw:-1.4,elevation:.42},train:{yaw:-1.32,elevation:.4},culvert:{yaw:-Math.PI/2,elevation:0}};
+const PHOTO={hfov:24,d:20,power:1.25,eye:1.5,aim:3.7};
+const MIN_ELEVATION=.08,MAX_ELEVATION=1.2,elevationRange=v=>v==='culvert'?[-.12,1]:[MIN_ELEVATION,MAX_ELEVATION];
+// 照片角度的天空（主對話判讀：這個視角畫面上半是天空，照片裡是藍天；其他視角照舊用主題的平塗底色）。
+const SKY={day:['#7fa7d2','#b5cde0','#dde5e2'],sunset:['#9d93a8','#e6b99a','#f1d6bc'],night:['#070d18','#101b2c','#25324a']};
+function skyTexture(stops){const c=document.createElement('canvas');c.width=2;c.height=256;const g=c.getContext('2d'),gr=g.createLinearGradient(0,0,0,256);gr.addColorStop(0,stops[0]);gr.addColorStop(.55,stops[1]);gr.addColorStop(1,stops[2]);g.fillStyle=gr;g.fillRect(0,0,2,256);const t=new THREE.CanvasTexture(c);t.colorSpace=THREE.SRGBColorSpace;return t;}
 
 export function mountGuanghua(root,{car='emu3000',period:initialPeriod,t=s=>s,params={}}={}){
 const q=s=>root.querySelector(s),qa=s=>root.querySelectorAll(s);
@@ -24,6 +33,8 @@ const offs=[];
 function on(target,type,fn,opts){target.addEventListener(type,fn,opts);offs.push(()=>target.removeEventListener(type,fn,opts));}
 let renderer,environment,primary,train,opposing,follower,opposingFollower,place,kits=null,trainShown=true,raf=0,last=0,time=0,distance=0,period=THEMES[initialPeriod]?initialPeriod:'day',view=matchMedia('(max-width:800px)').matches?'train':'world',running=!reduced.matches,zoom=1,span=1,yaw=CAMERA[view].yaw,elevation=CAMERA[view].elevation,disposed=false,ready=false,suspended=false,draws=0;
 const scene=new THREE.Scene(),camera=new THREE.OrthographicCamera(-40,40,30,-30,.1,400);camera.up.set(0,0,1);
+const photoCamera=new THREE.PerspectiveCamera(30,1,.05,400);photoCamera.up.set(0,0,1);
+let active=camera,plainSky=new THREE.Color('#e7e8e1');const skies={};
 const focus=new THREE.Vector3(),pan=new THREE.Vector3(),target=new THREE.Vector3(),sun=new THREE.DirectionalLight('#fff1cf',3.2),hemi=new THREE.HemisphereLight('#c1dce7','#7b8663',2.1);
 sun.position.set(-25,-30,45);sun.castShadow=true;sun.shadow.mapSize.set(1024,1024);Object.assign(sun.shadow.camera,{left:-42,right:42,top:35,bottom:-35,near:1,far:140});sun.shadow.normalBias=.035;sun.shadow.bias=-.0001;scene.add(sun,hemi,sun.target);
 const groundGeo=new THREE.PlaneGeometry(2000,2000),groundMat=new THREE.ShadowMaterial({opacity:.12}),ground=new THREE.Mesh(groundGeo,groundMat);ground.position.z=-2.5;ground.receiveShadow=true;scene.add(ground);
@@ -31,7 +42,7 @@ const clips=[new THREE.Plane(new THREE.Vector3(1,0,0),CLIP),new THREE.Plane(new 
 function controls(){const p=q('#play');if(p){p.textContent=running?'Ⅱ':'▷';p.setAttribute('aria-label',t(running?'暫停行駛':'開始行駛'));p.setAttribute('aria-pressed',String(running));}const i=q('#in'),o=q('#out');if(i)i.disabled=zoom>=1.8;if(o)o.disabled=zoom<=.7;}
 function schedule(){if(!raf&&!disposed&&!suspended&&!document.hidden&&ready)raf=requestAnimationFrame(frame);}
 function resize(){if(!renderer||disposed)return;const r=canvas.getBoundingClientRect();renderer.setPixelRatio(Math.min(devicePixelRatio||1,1.5));renderer.setSize(Math.max(1,r.width),Math.max(1,r.height),false);schedule();}
-function setTheme(next){period=next;const th=THEMES[period];themeEl.dataset.period=period;scene.background=new THREE.Color(th.background);hemi.color.set(th.ambient);hemi.groundColor.set(th.ground);hemi.intensity=period==='night'?1.2:2;sun.color.set(th.sun);sun.intensity=th.power;sun.position.set(period==='sunset'?-40:-25,period==='sunset'?10:-30,period==='sunset'?20:45);if(renderer)renderer.toneMappingExposure=th.exposure;qa('[data-period]').forEach(b=>{if(b.tagName==='BUTTON')b.setAttribute('aria-pressed',String(b.dataset.period===period));});schedule();}
+function setTheme(next){period=next;const th=THEMES[period];themeEl.dataset.period=period;plainSky=new THREE.Color(th.background);scene.background=plainSky;hemi.color.set(th.ambient);hemi.groundColor.set(th.ground);hemi.intensity=period==='night'?1.2:2;sun.color.set(th.sun);sun.intensity=th.power;sun.position.set(period==='sunset'?-40:-25,period==='sunset'?10:-30,period==='sunset'?20:45);if(renderer)renderer.toneMappingExposure=th.exposure;qa('[data-period]').forEach(b=>{if(b.tagName==='BUTTON')b.setAttribute('aria-pressed',String(b.dataset.period===period));});schedule();}
 // 一班車：依路徑擺好、更新集電弓與燈光、離景就隱藏（連頭燈精靈與聚光燈一起，它們不受裁切面管）。
 function drawTrain(consist,follow,path,d){
  follow(path,d);consist.updateParts?.();consist.lighting.update(period,1);
@@ -45,12 +56,22 @@ function draw(){
  drawTrain(train,follower,place.path,distance);if(opposing)drawTrain(opposing,opposingFollower,place.opposingPath,distanceAt(time-OPPOSE_DELAY));
  place.update(time,period,{cars:carPositions(),scale:UNIT_PER_M[car]??METER});
  const rect=canvas.getBoundingClientRect(),aspect=rect.width/Math.max(1,rect.height);
- if(view==='train'){const p=place.path.sample(THREE.MathUtils.clamp(distance,-19,19));target.set(p.x,p.y,p.z+.9);}
- else if(view==='culvert')target.set(0,-place.dims.mouthY,1.5);
- else target.set(...place.focus);
- focus.copy(target).add(pan);
- span=(view==='train'?Math.max(8,train.length*.7/aspect):view==='culvert'?Math.max(1.9,3.0/aspect):Math.max(10.5,21.5/aspect))/zoom;
- Object.assign(camera,{left:-span*aspect,right:span*aspect,top:span,bottom:-span});camera.position.set(focus.x+100*Math.cos(elevation)*Math.cos(yaw),focus.y+100*Math.cos(elevation)*Math.sin(yaw),focus.z+100*Math.sin(elevation));camera.lookAt(focus);camera.updateProjectionMatrix();camera.updateMatrixWorld();scene.updateMatrixWorld(true);renderer.render(scene,camera);draws++;
+ if(view==='culvert'){ // 照片角度（透視）：見檔頭 PHOTO 的說明
+  const d=place.dims,dist=METER*PHOTO.d/Math.pow(zoom,PHOTO.power),asin=v=>Math.asin(THREE.MathUtils.clamp(v,-1,1));
+  target.set(0,-d.mouthY,METER*PHOTO.aim);focus.copy(target).add(pan);
+  const el=Math.max(asin((d.ZG+METER*PHOTO.eye-focus.z)/dist)+elevation,asin((d.ZG+METER*.3-focus.z)/dist)); // 鏡頭不低於外側地面 .3 m
+  photoCamera.aspect=aspect;photoCamera.fov=2*Math.atan(Math.tan(PHOTO.hfov*Math.PI/360)/aspect)*180/Math.PI;
+  photoCamera.position.set(focus.x+dist*Math.cos(el)*Math.cos(yaw),focus.y+dist*Math.cos(el)*Math.sin(yaw),focus.z+dist*Math.sin(el));photoCamera.lookAt(focus);photoCamera.updateProjectionMatrix();photoCamera.updateMatrixWorld();
+  span=dist*Math.tan(photoCamera.fov*Math.PI/360);active=photoCamera;scene.background=skies[period]??=skyTexture(SKY[period]);
+ }else{
+  if(view==='train'){const p=place.path.sample(THREE.MathUtils.clamp(distance,-19,19));target.set(p.x,p.y,p.z+.9);}
+  else target.set(...place.focus);
+  focus.copy(target).add(pan);
+  span=(view==='train'?Math.max(8,train.length*.7/aspect):Math.max(10.5,21.5/aspect))/zoom;
+  Object.assign(camera,{left:-span*aspect,right:span*aspect,top:span,bottom:-span});camera.position.set(focus.x+100*Math.cos(elevation)*Math.cos(yaw),focus.y+100*Math.cos(elevation)*Math.sin(yaw),focus.z+100*Math.sin(elevation));camera.lookAt(focus);camera.updateProjectionMatrix();camera.updateMatrixWorld();
+  active=camera;scene.background=plainSky;
+ }
+ scene.updateMatrixWorld(true);renderer.render(scene,active);draws++;
  canvas.dataset.ready='true';canvas.dataset.distance=String(distance);canvas.dataset.period=period;canvas.dataset.view=view;
 }
 function frame(at){raf=0;if(disposed||suspended||document.hidden)return;if(last&&at-last<32){schedule();return;}const dt=last?Math.min((at-last)/1000,.08):0;last=at;if(running)time+=dt;draw();if(running)schedule();}
@@ -58,7 +79,12 @@ function reset(){zoom=1;pan.set(0,0,0);yaw=CAMERA[view].yaw;elevation=CAMERA[vie
 function setView(next){view=next;qa('[data-view]').forEach(b=>b.setAttribute('aria-pressed',String(b.dataset.view===view)));const look=q('#culvert');if(look?.hasAttribute('aria-pressed'))look.setAttribute('aria-pressed',String(view==='culvert'));reset();}
 function setZoom(z){zoom=Math.max(.7,Math.min(1.8,z));controls();schedule();}
 // 看涵洞：把時間快轉到「機車經過洞口內側、本線車正在洞上」的下一次（時刻表綁列車圈時鐘，機車過洞中心＝車心過 x＝0，見 guanghua.js）；沒有機車資產時退回本線車中心在 x＝-6 的下一次。鏡頭切洞口低角度並開始播放（減少動態時不自動播放）。
-function lookTime(now){if(place?.scooter)return place.scooter.run.lookTime(now);const at=-6-PHASE,n=Math.ceil((now*SPEED-at)/LAP);return (at+n*LAP)/SPEED;}
+// 照片比對輪再微調一步：把時間挪到「最靠近洞口的那節車廂中心正好在 x＝0」（主對話判讀：照片裡洞口上方是一整節車身；車廂數是偶數時列車中心是兩節之間的車鉤）。最多挪半節車（約 1.6 秒），機車仍在洞內或引道上。
+function lookTime(now){
+ let at;if(place?.scooter)at=place.scooter.run.lookTime(now);else{const a=-6-PHASE,n=Math.ceil((now*SPEED-a)/LAP);at=(a+n*LAP)/SPEED;}
+ const d=distanceAt(at);let near=null;for(const c of train?.cars??[]){const x=d+c.offset;if(near===null||Math.abs(x)<Math.abs(near))near=x;}
+ return near===null?at:at-near/SPEED;
+}
 for(const b of qa('button[data-period]'))on(b,'click',()=>setTheme(b.dataset.period));
 for(const b of qa('[data-view]'))on(b,'click',()=>setView(b.dataset.view));
 function bind(sel,fn){const el=q(sel);if(el)on(el,'click',fn);}
@@ -67,15 +93,15 @@ bind('#culvert',()=>{if(!ready)return;time=lookTime(time);last=0;if(!reduced.mat
 bind('#reset',reset);
 bind('#in',()=>setZoom(zoom*1.2));bind('#out',()=>setZoom(zoom/1.2));
 // 平移：滑鼠右鍵／中鍵／Shift＋拖曳、觸控雙指拖曳、Shift＋方向鍵。偏移量存在 pan（世界座標、沿地面），重設視角歸零。
-function panBy(dx,dy){const u=2*span/Math.max(1,canvas.getBoundingClientRect().height),g=u/Math.sin(Math.max(.2,elevation));pan.x=Math.max(-40,Math.min(40,pan.x+Math.sin(yaw)*dx*u-Math.cos(yaw)*dy*g));pan.y=Math.max(-40,Math.min(40,pan.y-Math.cos(yaw)*dx*u-Math.sin(yaw)*dy*g));schedule();}
+function panBy(dx,dy){const u=2*span/Math.max(1,canvas.getBoundingClientRect().height),g=view==='culvert'?u:u/Math.sin(Math.max(.2,elevation));pan.x=Math.max(-40,Math.min(40,pan.x+Math.sin(yaw)*dx*u-Math.cos(yaw)*dy*g));pan.y=Math.max(-40,Math.min(40,pan.y-Math.cos(yaw)*dx*u-Math.sin(yaw)*dy*g));schedule();}
 const pointers=new Map();let gesture;
 on(canvas,'contextmenu',e=>e.preventDefault());
 on(canvas,'pointerdown',e=>{canvas.setPointerCapture(e.pointerId);pointers.set(e.pointerId,{x:e.clientX,y:e.clientY,pan:e.button===1||e.button===2||e.shiftKey});gesture=null;});
-on(canvas,'pointermove',e=>{if(!pointers.has(e.pointerId))return;const old=pointers.get(e.pointerId);pointers.set(e.pointerId,{x:e.clientX,y:e.clientY,pan:old.pan});if(pointers.size===1){if(old.pan||e.shiftKey)panBy(e.clientX-old.x,e.clientY-old.y);else{yaw+=(e.clientX-old.x)*.007;elevation=Math.max(MIN_ELEVATION,Math.min(MAX_ELEVATION,elevation+(old.y-e.clientY)*.005));schedule();}}else{const [a,b]=[...pointers.values()],gap=Math.hypot(a.x-b.x,a.y-b.y),mid={x:(a.x+b.x)/2,y:(a.y+b.y)/2};if(gesture){setZoom(gesture.zoom*gap/gesture.gap);panBy(mid.x-gesture.mid.x,mid.y-gesture.mid.y);gesture.mid=mid;}else gesture={zoom,gap:Math.max(1,gap),mid};}});
+on(canvas,'pointermove',e=>{if(!pointers.has(e.pointerId))return;const old=pointers.get(e.pointerId);pointers.set(e.pointerId,{x:e.clientX,y:e.clientY,pan:old.pan});if(pointers.size===1){if(old.pan||e.shiftKey)panBy(e.clientX-old.x,e.clientY-old.y);else{const [lo,hi]=elevationRange(view);yaw+=(e.clientX-old.x)*.007;elevation=Math.max(lo,Math.min(hi,elevation+(old.y-e.clientY)*.005));schedule();}}else{const [a,b]=[...pointers.values()],gap=Math.hypot(a.x-b.x,a.y-b.y),mid={x:(a.x+b.x)/2,y:(a.y+b.y)/2};if(gesture){setZoom(gesture.zoom*gap/gesture.gap);panBy(mid.x-gesture.mid.x,mid.y-gesture.mid.y);gesture.mid=mid;}else gesture={zoom,gap:Math.max(1,gap),mid};}});
 const pointerEnd=e=>{pointers.delete(e.pointerId);gesture=null;};
 for(const type of ['pointerup','pointercancel','lostpointercapture'])on(canvas,type,pointerEnd);
 on(canvas,'wheel',e=>{e.preventDefault();setZoom(zoom*Math.exp(-Math.max(-150,Math.min(150,e.deltaY))*.002));},{passive:false});
-on(canvas,'keydown',e=>{if(!['ArrowLeft','ArrowRight','ArrowUp','ArrowDown','+','-','0',' '].includes(e.key))return;e.preventDefault();if(e.key===' ')q('#play')?.click();else if(e.key==='0')reset();else if(e.key==='+')setZoom(zoom*1.2);else if(e.key==='-')setZoom(zoom/1.2);else if(e.shiftKey)panBy(e.key==='ArrowLeft'?40:e.key==='ArrowRight'?-40:0,e.key==='ArrowUp'?40:e.key==='ArrowDown'?-40:0);else{if(e.key==='ArrowLeft')yaw-=.15;if(e.key==='ArrowRight')yaw+=.15;if(e.key==='ArrowUp')elevation=Math.min(MAX_ELEVATION,elevation+.1);if(e.key==='ArrowDown')elevation=Math.max(MIN_ELEVATION,elevation-.1);schedule();}});
+on(canvas,'keydown',e=>{if(!['ArrowLeft','ArrowRight','ArrowUp','ArrowDown','+','-','0',' '].includes(e.key))return;e.preventDefault();if(e.key===' ')q('#play')?.click();else if(e.key==='0')reset();else if(e.key==='+')setZoom(zoom*1.2);else if(e.key==='-')setZoom(zoom/1.2);else if(e.shiftKey)panBy(e.key==='ArrowLeft'?40:e.key==='ArrowRight'?-40:0,e.key==='ArrowUp'?40:e.key==='ArrowDown'?-40:0);else{if(e.key==='ArrowLeft')yaw-=.15;if(e.key==='ArrowRight')yaw+=.15;const [lo,hi]=elevationRange(view);if(e.key==='ArrowUp')elevation=Math.min(hi,elevation+.1);if(e.key==='ArrowDown')elevation=Math.max(lo,elevation-.1);schedule();}});
 const observer=new ResizeObserver(resize);observer.observe(canvas);
 on(document,'visibilitychange',()=>{last=0;if(document.hidden){cancelAnimationFrame(raf);raf=0;}else schedule();});
 on(reduced,'change',()=>{if(reduced.matches){running=false;controls();schedule();}});
@@ -85,7 +111,7 @@ function release(){
  kits?.forEach(k=>k.dispose());train?.dispose();opposing?.dispose();primary?.dispose();place?.dispose();environment?.dispose();groundGeo.dispose();groundMat.dispose();sun.shadow.map?.dispose();
  // 保底：場景裡走過的每個 mesh 都再清一次（各模組的 dispose 沒涵蓋到的漏網之魚；重複 dispose 無害）。
  scene.traverse(o=>{if(o.geometry)o.geometry.dispose();if(o.material)for(const m of [].concat(o.material))disposeMaterial(m);if(o.isInstancedMesh)o.dispose();});
- renderer?.dispose();if(renderer&&!renderer.getContext().isContextLost())renderer.forceContextLoss(); // 載入途中被 dispose 時 release() 會被叫第二次；WebKit 對已掉的 context 再 loseContext 會噴 console error
+ for(const s of Object.values(skies))s.dispose();renderer?.dispose();if(renderer&&!renderer.getContext().isContextLost())renderer.forceContextLoss(); // 載入途中被 dispose 時 release() 會被叫第二次；WebKit 對已掉的 context 再 loseContext 會噴 console error
 }
 function dispose(){
  if(disposed)return;disposed=true;ready=false;cancelAnimationFrame(raf);raf=0;
@@ -131,9 +157,9 @@ try{
   get state(){return{ready,period,view,running,paused:suspended,pan:{x:pan.x,y:pan.y},time,distance,speed:SPEED,lap:LAP,zoom,yaw,elevation,draws,drawCalls:renderer.info.render.calls,triangles:renderer.info.render.triangles,memory:{...renderer.info.memory},
    trainLength:train.length,trainVisible:train.root.visible,opposing:!!opposing,scale:UNIT_PER_M[car]??METER,scene:place.state,dims:place.dims,
    poses:train.cars.map(c=>({id:c.id,x:c.car.position.x,y:c.car.position.y,z:c.car.position.z,heading:c.heading,pitch:c.pitch,offset:c.offset,length:c.length})),
-   bounds:train.cars.map(c=>{const b=new THREE.Box3().setFromObject(c.car),ps=[];for(const x of [b.min.x,b.max.x])for(const y of [b.min.y,b.max.y])for(const z of [b.min.z,b.max.z]){const p=new THREE.Vector3(x,y,z).project(camera);ps.push([(p.x+1)*canvas.width/2,(1-p.y)*canvas.height/2]);}return{left:Math.min(...ps.map(p=>p[0])),right:Math.max(...ps.map(p=>p[0])),top:Math.min(...ps.map(p=>p[1])),bottom:Math.max(...ps.map(p=>p[1]))};})};},
+   bounds:train.cars.map(c=>{const b=new THREE.Box3().setFromObject(c.car),ps=[];for(const x of [b.min.x,b.max.x])for(const y of [b.min.y,b.max.y])for(const z of [b.min.z,b.max.z]){const p=new THREE.Vector3(x,y,z).project(active);ps.push([(p.x+1)*canvas.width/2,(1-p.y)*canvas.height/2]);}return{left:Math.min(...ps.map(p=>p[0])),right:Math.max(...ps.map(p=>p[0])),top:Math.min(...ps.map(p=>p[1])),bottom:Math.max(...ps.map(p=>p[1]))};})};},
   sample:(s,which='main')=>(which==='opposing'?place.opposingPath:place.path).sample(s),
-  project:p=>{const v=new THREE.Vector3(...p).project(camera);return{x:(v.x+1)*canvas.width/2,y:(1-v.y)*canvas.height/2};},
+  project:p=>{const v=new THREE.Vector3(...p).project(active);return{x:(v.x+1)*canvas.width/2,y:(1-v.y)*canvas.height/2};},
   setTime:v=>{time=v;draw();},render:draw,dispose,
   // 把本線車的中心放到 x＝d（時間跟著換；每圈的同一位置取本圈第一次）。
   setDistance:d=>{const n=Math.ceil((time*SPEED-(d-PHASE))/LAP);time=((d-PHASE)+n*LAP)/SPEED;draw();return time;},
@@ -142,12 +168,12 @@ try{
   trainVisible:v=>{trainShown=v;draw();},sceneVisible:v=>{place.group.visible=ground.visible=v;draw();},
   people:()=>place.inspect(),
   // 從 origin 朝 dir 射線，回傳打到的東西（近→遠）：驗收量淨高、淨寬、橋面厚度用，量的是實際畫出來的網格。
-  ray:(origin,dir,{withTrain=false}={})=>{scene.updateMatrixWorld(true);probe.set(new THREE.Vector3(...origin),new THREE.Vector3(...dir).normalize());probe.camera=camera;const objs=withTrain?[place.group,train.root]:[place.group];
+  ray:(origin,dir,{withTrain=false}={})=>{scene.updateMatrixWorld(true);probe.set(new THREE.Vector3(...origin),new THREE.Vector3(...dir).normalize());probe.camera=active;const objs=withTrain?[place.group,train.root]:[place.group];
    return probe.intersectObjects(objs,true).map(h=>({distance:h.distance,point:h.point.toArray(),material:[].concat(h.object.material)[0]?.name||'',object:h.object.name||h.object.type,instanced:!!h.object.isInstancedMesh}));},
   // 車身（不含集電弓）在世界座標的包圍盒，每節一個。
   carBoxes:(which='main')=>{const c=which==='opposing'?opposing:train;if(!c)return[];scene.updateMatrixWorld(true);return c.cars.map(car=>{car.body.updateWorldMatrix(true,false);const b=car.body.geometry.boundingBox.clone().applyMatrix4(car.body.matrixWorld);return{id:car.id,min:b.min.toArray(),max:b.max.toArray()};});},
   // 給驗收腳本直接讀場景與列車（量結構、量網格）：THREE 用同一份模組實例。
-  internals:()=>({THREE,scene,group:place.group,train,opposing,camera,renderer,place,primary,clips}),
+  internals:()=>({THREE,scene,group:place.group,train,opposing,get camera(){return active;},orthoCamera:camera,photoCamera,renderer,place,primary,clips}),
   pantographs:()=>[train,opposing].filter(Boolean).flatMap((c,i)=>(c.pantographState?.()??[]).map(h=>({...h,train:i?'opposing':'main'})))
  }));
  return true;
